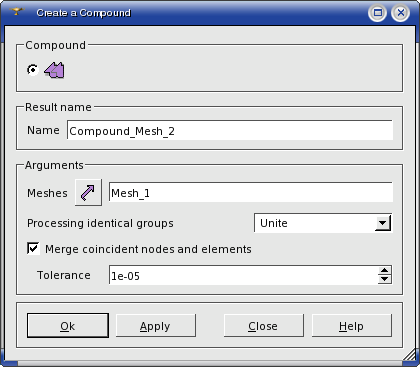
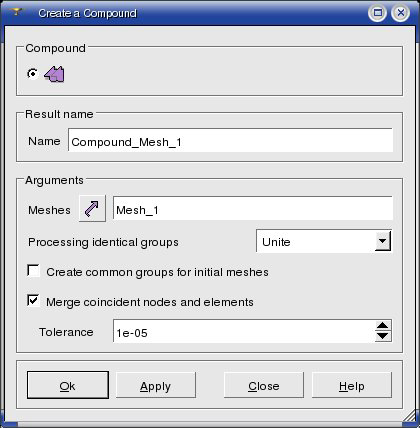
Update GUI documentation for bug 16716

Changed region(s): [[0.0, 0.0, 1.0, 1.0]]

diff --git a/doc/salome/gui/SMESH/building_compounds.htm b/doc/salome/gui/SMESH/building_compounds.htm
@@ -11,13 +11,14 @@ p.whs1 { font-family:'Arial Black' , sans-serif; font-style:italic; }
 p.whs2 { margin-left:40px; }
 img_whs3 { border:none; width:25px; height:24px; border-style:none; }
 p.whs4 { margin-left:80px; }
-img_whs5 { border:none; width:420px; height:367px; float:none; border-style:none; }
+img_whs5 { border:none; width:420px; height:428px; float:none; }
 ul.whs6 { list-style:disc; }
 p.whs7 { margin-left:80px; margin-top:0pt; margin-bottom:0pt; }
 p.whs8 { margin-top:0pt; margin-bottom:0pt; margin-left:120px; }
-p.whs9 { margin-left:80px; margin-top:0pt; margin-bottom:0pt; font-weight:bold; }
-p.whs10 { margin-top:0pt; margin-bottom:0pt; font-style:italic; margin-left:24px; }
-img_whs11 { border:none; width:245px; height:257px; border-style:none; }
+p.whs9 { margin-left:80px; margin-top:0pt; margin-bottom:0pt; font-weight:normal; }
+p.whs10 { margin-left:80px; margin-top:0pt; margin-bottom:0pt; font-weight:bold; }
+p.whs11 { margin-top:0pt; margin-bottom:0pt; font-style:italic; margin-left:24px; }
+img_whs12 { border:none; width:245px; height:257px; border-style:none; }
 -->
 </style><script type="text/javascript" language="JavaScript">
 <!--
@@ -28,6 +29,7 @@ if ((navigator.appName == "Netscape") && (parseInt(navigator.appVersion) == 4))
   strNSS += "p.whs8 {margin-top:1pt;margin-bottom:1pt; }";
   strNSS += "p.whs9 {margin-top:1pt;margin-bottom:1pt; }";
   strNSS += "p.whs10 {margin-top:1pt;margin-bottom:1pt; }";
+  strNSS += "p.whs11 {margin-top:1pt;margin-bottom:1pt; }";
   strNSS +="</style>";
   document.write(strNSS);
 }
@@ -104,7 +106,7 @@ if (window.writeIntopicBar)
  click <img src="image161.gif" width="25px" height="24px" border="0" class="img_whs3"> button in the toolbar. The following dialog box will 
  appear: </p>
 
-<p class="whs4"><img src="pics/buildcompound.png" x-maintain-ratio="TRUE" width="420px" height="367px" border="0" class="img_whs5"></p>
+<p class="whs4"><img src="pics/buildcompound.png" x-maintain-ratio="TRUE" width="420px" height="428px" border="0" class="img_whs5"></p>
 
 <ul type="disc" class="whs6">
 	
@@ -137,16 +139,21 @@ if (window.writeIntopicBar)
  See <span style="font-weight: bold;"><B><a href="grouping_elements.htm">Creating 
  Groups</a></B></span> for more information about groups. </p></li>
 	
-	<li class=kadov-p><p class="whs9"><span style="font-weight: normal;">You 
+	<li class=kadov-p><p class="whs9"><span style="font-weight: bold;"><B>Create 
+ common groups for initial meshes</B></span> checkbox permits to automatically 
+ create groups of all elements of the same type (nodes, edges, faces and 
+ volumes) for the resulting mesh from the elements of the initial meshes.</p></li>
+	
+	<li class=kadov-p><p class="whs10"><span style="font-weight: normal;">You 
  can simply unite meshes or choose to</span> Merge coincident nodes and 
  elements, <span style="font-weight: normal;">in which case it is possible 
  to define the</span> Tolerance <span style="font-weight: normal;">for 
  this operation.</span> &nbsp;</p></li>
 </ul>
 
-<p class="whs10">Example:</p>
+<p class="whs11">Example:</p>
 
-<p class="whs4"><img src="image160.gif" width="245px" height="257px" border="0" class="img_whs11"></p>
+<p class="whs4"><img src="image160.gif" width="245px" height="257px" border="0" class="img_whs12"></p>
 
 <p>&nbsp;</p>
 
